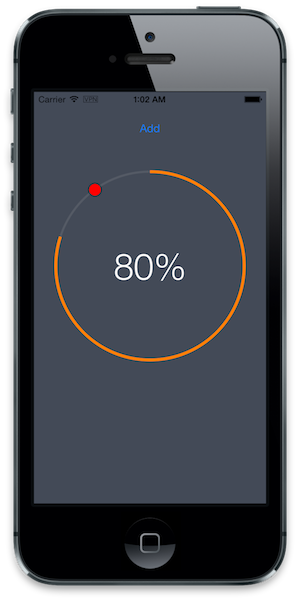
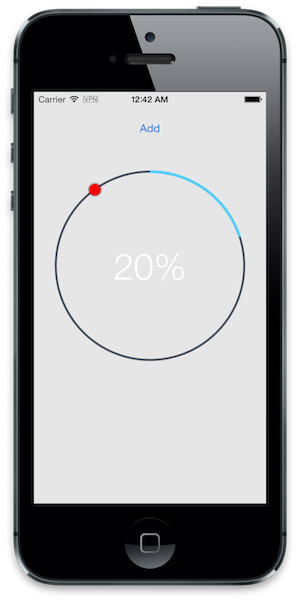
add the touch point offset value

diff --git a/SLCircularProgressDemo/SLCircularProgressDemo/ViewController.m b/SLCircularProgressDemo/SLCircularProgressDemo/ViewController.m
@@ -7,9 +7,9 @@
 //
 
 #import "ViewController.h"
-#import "SLCircularProgress.h"
 
-#define BACKGROUND_COLOR [UIColor colorWithRed:67/255.0f green:74/255.0f blue:87/255.0f alpha:1.0f]
+
+#define BACKGROUND_COLOR [UIColor colorWithRed:230/255.0f green:230/255.0f blue:230/255.0f alpha:1.0f]
 #define LINE_COLOR [UIColor colorWithRed:89/255.0f green:206/255.0f blue:254/255.0f alpha:1.0f]
 #define PATH_COLOR [UIColor colorWithRed:84/255.0f green:90/255.0f blue:101/255.0f alpha:1.0f]
 
@@ -30,7 +30,7 @@
 	// Do any additional setup after loading the view, typically from a nib.
     
     self.view.backgroundColor = BACKGROUND_COLOR;
- 
+    
     progress = 0.1;
     
     cir = [[SLCircularProgress alloc] initWithFrame:CGRectMake(20, 100, 280 ,280)];
@@ -43,6 +43,7 @@
     cir.pathWidth = 3.0f;
     cir.progressWidth = 4.0f;
     cir.thresholdPercentage = 0.9f;
+    cir.delegate = self;
     [self.view addSubview:cir];
     
 
@@ -61,11 +62,8 @@
     }
     
     progress = progress + 0.1f;
-    
     cir.percentage = progress;
-    
     cir.pathColor = PATH_COLOR;
-
     if (progress >= 0.8f) {
         cir.progressColor = [UIColor orangeColor];
         
@@ -80,5 +78,13 @@
     [cir setNeedsDisplay];
     
 
+}
+
+#pragma mark -
+#pragma SLCircularProgressDelegate
+
+-(void)moveThresholdEnd:(float)percentage
+{
+    NSLog(@"End of threshold percentage is %f", percentage);
 }
 @end

diff --git a/SLCircularProgress/SLCircularProgress.m b/SLCircularProgress/SLCircularProgress.m
@@ -30,6 +30,7 @@
 #import <CoreGraphics/CoreGraphics.h>
 
 #define kRadiusOffset 10
+#define TOUCH_POINT_OFFSET 10
 
 #define CIRCULAR_FONT 50
 
@@ -179,7 +180,17 @@
 -(BOOL)beginTrackingWithTouch:(UITouch *)touch withEvent:(UIEvent *)event{
     [super beginTrackingWithTouch:touch withEvent:event];
     
-    //We need to track continuously
+    CGPoint firstPoint = [touch locationInView:self];
+    CGPoint centerPoint = CGPointMake(self.frame.size.width/2, self.frame.size.height/2);
+    CGFloat radius = self.bounds.size.width/2 - kRadiusOffset ;
+    
+    //calculate the distance between start point and center point
+    float distance = DistanceFromPoints(firstPoint, centerPoint);
+    
+    //if the distance larger than the offset, it doesn't allow to trigger move
+    if (fabsf(distance- radius) > TOUCH_POINT_OFFSET) {
+        return NO;
+    }
     return YES;
 }
 
@@ -263,6 +274,12 @@ static inline float AngleFromNorth(CGPoint p1, CGPoint p2, BOOL flipped) {
     result = ToDeg(radians);
     return (result >=0  ? result : result + 360.0);
 }
+
+//Calculate the distance
+static inline float DistanceFromPoints(CGPoint p1, CGPoint p2){
+    return sqrtf(powf((p1.x-p2.x),2.0f) +  powf((p1.y-p2.y),2.0f));
+}
+
 
 @end
 

diff --git a/SLCircularProgressDemo/SLCircularProgressDemo/ViewController.h b/SLCircularProgressDemo/SLCircularProgressDemo/ViewController.h
@@ -7,8 +7,9 @@
 //
 
 #import <UIKit/UIKit.h>
+#import "SLCircularProgress.h"
 
-@interface ViewController : UIViewController
+@interface ViewController : UIViewController<SLCircularProgressDelegate>
 - (IBAction)addPercentage:(id)sender;
 
 @end
